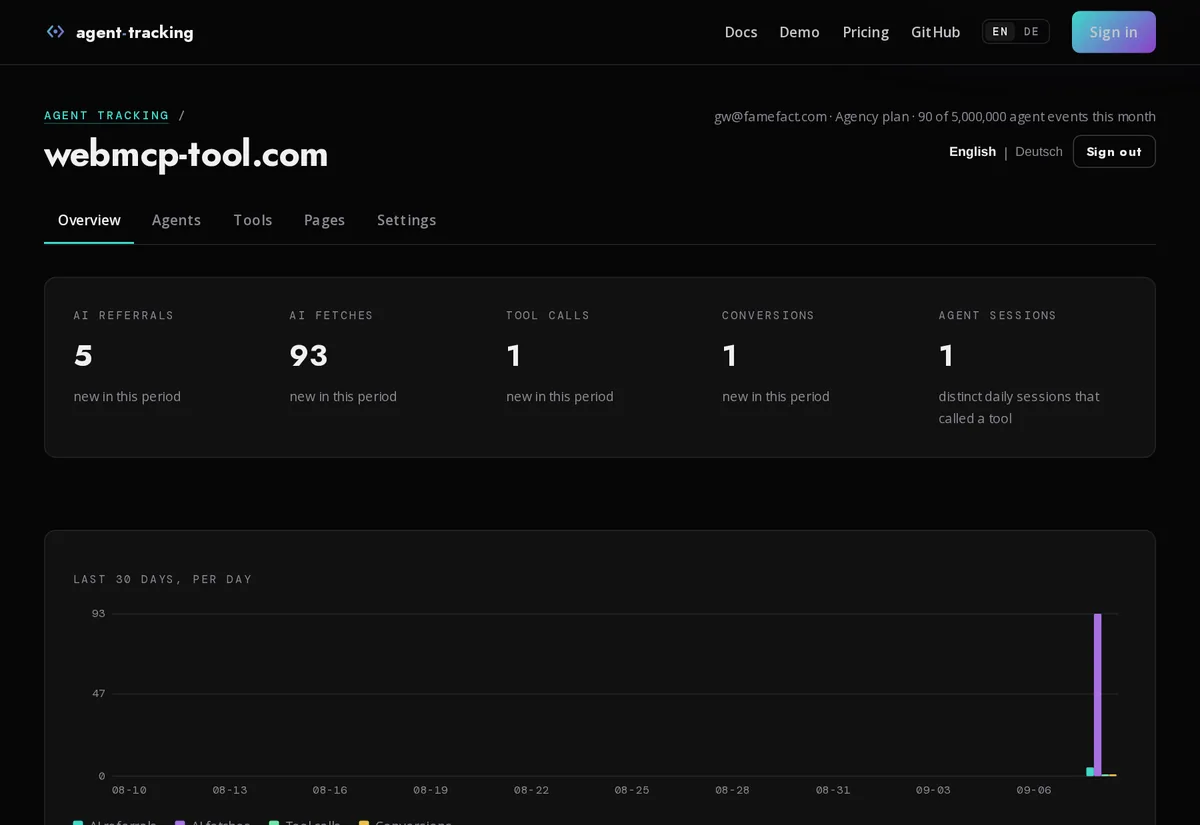
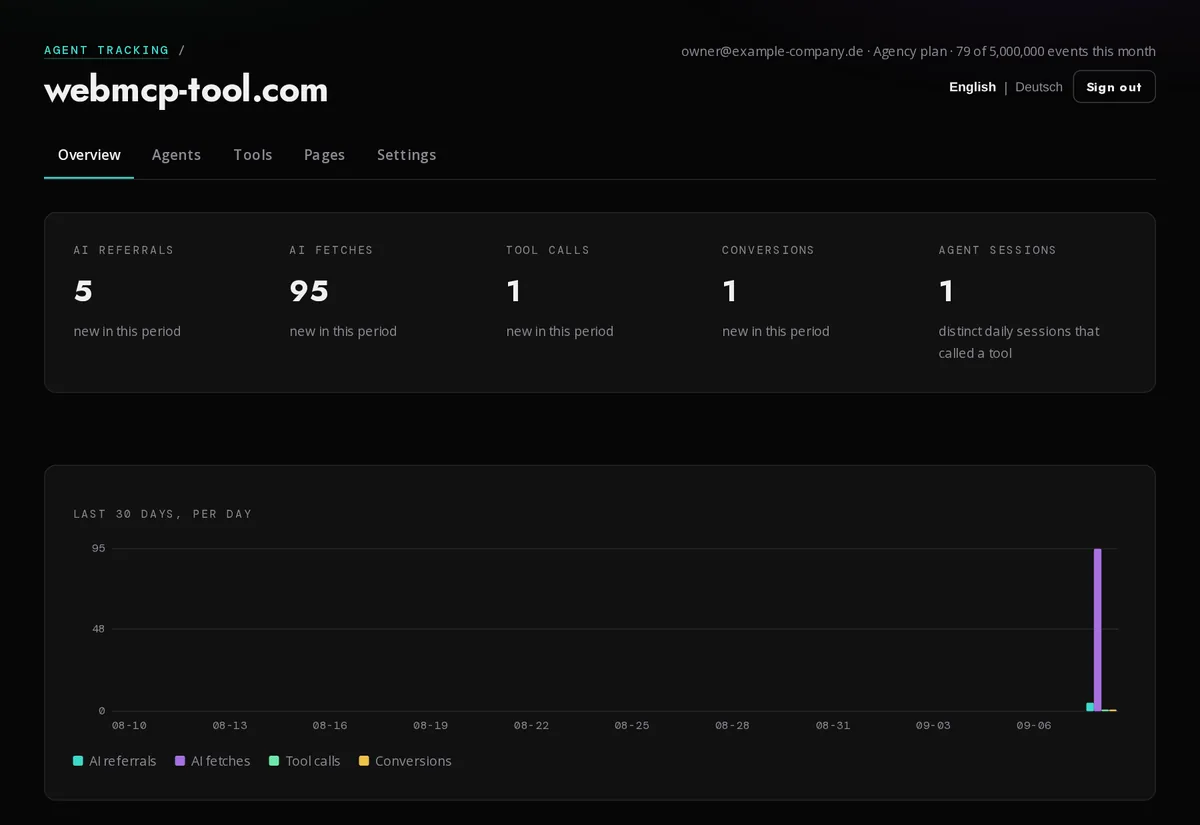
Render environment-driven pages per request; tsx at runtime
Home, docs, the legal pages, robots, llms.txt and the sitemap were
prerendered at build, so a self-hosted image carried the cloud's host and
legal entity whatever the runtime environment said. They render per request
now. tsx moves to dependencies because the cron scripts need it in every
install. Landing screenshots reshot without the account line.

Claude-Session: https://claude.ai/code/session_01FbUoiWJgXYe76CfxWs8PiP

diff --git a/app/(de)/de/avv/page.tsx b/app/(de)/de/avv/page.tsx
@@ -3,6 +3,10 @@ import { alternatesForLocale } from "@/lib/i18n";
 import { CONTACT_EMAIL, LEGAL, SITE_HOST } from "@/lib/site";
 import { RAW_RETENTION_DAYS } from "@/lib/tracking/plans";
 
+// Rendered per request, not at build: the host, the entity on the legal pages and the
+// snippet line come from the environment, and a self-hosted copy must print its own.
+export const dynamic = "force-dynamic";
+
 export const metadata = {
   title: "Auftragsverarbeitungsvertrag",
   description: `Auftragsverarbeitungsvertrag nach Art. 28 DSGVO für Agent Tracking auf ${SITE_HOST}: Gegenstand, Weisungen, Unterauftragsverarbeiter, Drittlandübermittlung, technische und organisatorische Maßnahmen, Löschung.`,

diff --git a/app/(en)/dpa/page.tsx b/app/(en)/dpa/page.tsx
@@ -3,6 +3,10 @@ import { alternatesFor } from "@/lib/i18n";
 import { CONTACT_EMAIL, LEGAL, SITE_HOST } from "@/lib/site";
 import { RAW_RETENTION_DAYS } from "@/lib/tracking/plans";
 
+// Rendered per request, not at build: the host, the entity on the legal pages and the
+// snippet line come from the environment, and a self-hosted copy must print its own.
+export const dynamic = "force-dynamic";
+
 export const metadata = {
   title: "Data Processing Agreement",
   description: `Data processing agreement under Art. 28 GDPR for Agent Tracking at ${SITE_HOST}: subject matter, instructions, sub-processors, international transfer, technical and organisational measures, deletion.`,

diff --git a/app/(de)/de/agb/page.tsx b/app/(de)/de/agb/page.tsx
@@ -3,6 +3,10 @@ import { alternatesForLocale } from "@/lib/i18n";
 import { CONTACT_EMAIL, LEGAL, SITE_HOST } from "@/lib/site";
 import { PLANS, RAW_RETENTION_DAYS } from "@/lib/tracking/plans";
 
+// Rendered per request, not at build: the host, the entity on the legal pages and the
+// snippet line come from the environment, and a self-hosted copy must print its own.
+export const dynamic = "force-dynamic";
+
 export const metadata = {
   title: "Allgemeine Geschäftsbedingungen",
   description: `Die Bedingungen für den gehosteten Dienst Agent Tracking auf ${SITE_HOST}: Leistung, Pläne, Pflichten, Verfügbarkeit, Haftung, Laufzeit, Recht.`,

diff --git a/app/(de)/de/datenschutz/page.tsx b/app/(de)/de/datenschutz/page.tsx
@@ -3,6 +3,10 @@ import { alternatesForLocale } from "@/lib/i18n";
 import { CONTACT_EMAIL, LEGAL, SITE_HOST } from "@/lib/site";
 import { RAW_RETENTION_DAYS } from "@/lib/tracking/plans";
 
+// Rendered per request, not at build: the host, the entity on the legal pages and the
+// snippet line come from the environment, and a self-hosted copy must print its own.
+export const dynamic = "force-dynamic";
+
 export const metadata = {
   title: "Datenschutzerklärung",
   description: `Was ${SITE_HOST} über Besucher dieser Site, über Kontoinhaber und im Auftrag von Kunden auf deren Sites erfasst. Keine Cookies, keine Fremdscripts, keine Werbung.`,

diff --git a/app/(en)/privacy/page.tsx b/app/(en)/privacy/page.tsx
@@ -3,6 +3,10 @@ import { alternatesFor } from "@/lib/i18n";
 import { CONTACT_EMAIL, LEGAL, SITE_HOST } from "@/lib/site";
 import { RAW_RETENTION_DAYS } from "@/lib/tracking/plans";
 
+// Rendered per request, not at build: the host, the entity on the legal pages and the
+// snippet line come from the environment, and a self-hosted copy must print its own.
+export const dynamic = "force-dynamic";
+
 export const metadata = {
   title: "Privacy notice",
   description: `What ${SITE_HOST} records about visitors of this site, about account holders, and on customers' sites on their behalf. No cookies, no third-party scripts, no advertising.`,

diff --git a/app/(en)/terms/page.tsx b/app/(en)/terms/page.tsx
@@ -3,6 +3,10 @@ import { alternatesFor } from "@/lib/i18n";
 import { CONTACT_EMAIL, LEGAL, SITE_HOST } from "@/lib/site";
 import { PLANS, RAW_RETENTION_DAYS } from "@/lib/tracking/plans";
 
+// Rendered per request, not at build: the host, the entity on the legal pages and the
+// snippet line come from the environment, and a self-hosted copy must print its own.
+export const dynamic = "force-dynamic";
+
 export const metadata = {
   title: "Terms of service",
   description: `The terms for the hosted Agent Tracking service at ${SITE_HOST}: the service, plans, your obligations, availability, liability, term and law.`,

diff --git a/app/(en)/app/[domain]/page.tsx b/app/(en)/app/[domain]/page.tsx
@@ -8,6 +8,10 @@ import { dashCopy, dashLang, numberLocale } from "@/lib/tracking/copy";
 import { interactions, loadDashboard } from "@/lib/tracking/dashboard";
 import { planFor } from "@/lib/tracking/plans";
 
+// Rendered per request, not at build: the host, the entity on the legal pages and the
+// snippet line come from the environment, and a self-hosted copy must print its own.
+export const dynamic = "force-dynamic";
+
 export const metadata: Metadata = { title: "Overview", robots: { index: false, follow: false } };
 export const runtime = "nodejs";
 

diff --git a/app/(en)/docs/page.tsx b/app/(en)/docs/page.tsx
@@ -8,6 +8,10 @@ import { snippetFor } from "@/lib/tracking/snippet";
 import sources from "@/lib/tracking/ai-sources.json";
 import { CHECK_ORIGIN, CONTACT_EMAIL, GITHUB_URL, SITE_HOST, SITE_ORIGIN } from "@/lib/site";
 
+// Rendered per request, not at build: the host, the entity on the legal pages and the
+// snippet line come from the environment, and a self-hosted copy must print its own.
+export const dynamic = "force-dynamic";
+
 const API_CURL = `curl -s ${SITE_ORIGIN}/api/stats/example.com?days=30 \\
   -H "Authorization: Bearer wmt_your_token"`;
 

diff --git a/app/(de)/de/docs/page.tsx b/app/(de)/de/docs/page.tsx
@@ -8,6 +8,10 @@ import { snippetFor } from "@/lib/tracking/snippet";
 import sources from "@/lib/tracking/ai-sources.json";
 import { CONTACT_EMAIL, GITHUB_URL, SITE_HOST, SITE_ORIGIN } from "@/lib/site";
 
+// Rendered per request, not at build: the host, the entity on the legal pages and the
+// snippet line come from the environment, and a self-hosted copy must print its own.
+export const dynamic = "force-dynamic";
+
 const API_CURL = `curl -s ${SITE_ORIGIN}/api/stats/example.com?days=30 \\
   -H "Authorization: Bearer wmt_dein_token"`;
 

diff --git a/app/(de)/de/page.tsx b/app/(de)/de/page.tsx
@@ -7,6 +7,10 @@ import { PLANS, RAW_RETENTION_DAYS } from "@/lib/tracking/plans";
 import { snippetFor } from "@/lib/tracking/snippet";
 import { CHECK_ORIGIN, CONTACT_EMAIL, GITHUB_URL } from "@/lib/site";
 
+// Rendered per request, not at build: the host, the entity on the legal pages and the
+// snippet line come from the environment, and a self-hosted copy must print its own.
+export const dynamic = "force-dynamic";
+
 export const metadata: Metadata = {
   title: "Agent Tracking: Agenten auf deiner Site messen",
   description:

diff --git a/app/(en)/app/[domain]/settings/page.tsx b/app/(en)/app/[domain]/settings/page.tsx
@@ -10,6 +10,10 @@ import { PLANS, planFor, priceIdFor } from "@/lib/tracking/plans";
 import { snippetFor } from "@/lib/tracking/snippet";
 import { SITE_ORIGIN } from "@/lib/site";
 
+// Rendered per request, not at build: the host, the entity on the legal pages and the
+// snippet line come from the environment, and a self-hosted copy must print its own.
+export const dynamic = "force-dynamic";
+
 export const metadata: Metadata = { title: "Settings", robots: { index: false, follow: false } };
 export const runtime = "nodejs";
 

diff --git a/app/(en)/page.tsx b/app/(en)/page.tsx
@@ -7,6 +7,10 @@ import { PLANS, RAW_RETENTION_DAYS } from "@/lib/tracking/plans";
 import { snippetFor } from "@/lib/tracking/snippet";
 import { CHECK_ORIGIN, CONTACT_EMAIL, GITHUB_URL } from "@/lib/site";
 
+// Rendered per request, not at build: the host, the entity on the legal pages and the
+// snippet line come from the environment, and a self-hosted copy must print its own.
+export const dynamic = "force-dynamic";
+
 export const metadata: Metadata = {
   title: "Agent Tracking: measure agents on your site",
   description:
